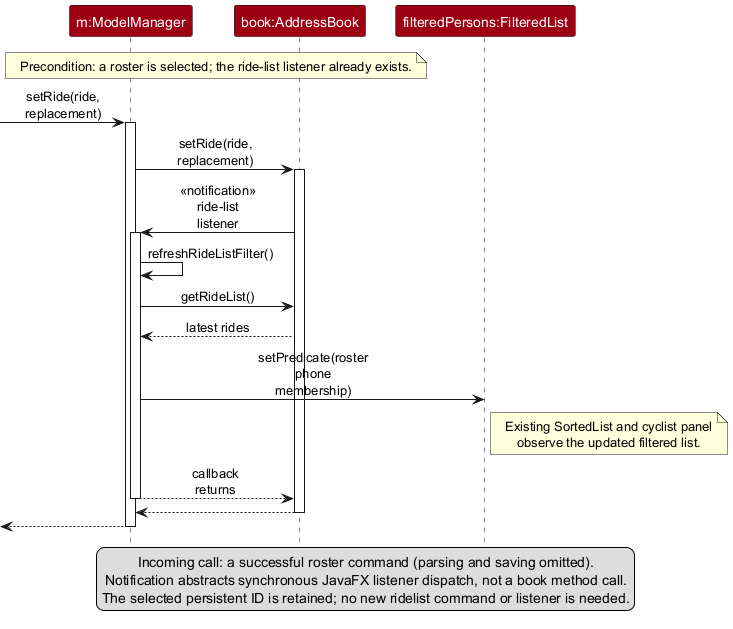
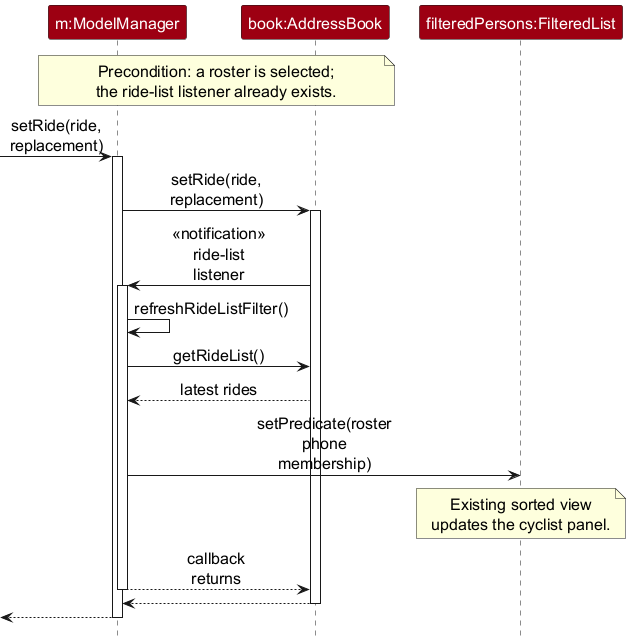
Improve guide readability and regression fixtures
Roster checks depend on unsuitable earlier fixtures and describe an
incomplete final state. Diagram labels are smaller than body text,
and the guide omits the new registered-cyclist FTP rejection case.

Make the roster scenario independent and describe all saved changes.
Enlarge diagram labels, remove repeated notes, document the FTP
extension and align platform requirements with course constraints.

Verify Jekyll, Chrome and Firefox layouts, changed PDF sections and
the full roster command scenario with JSON reload. JDK 25 check and
coverage pass: 897 tests and 92.30 percent line coverage.

diff --git a/docs/DeveloperGuide.md b/docs/DeveloperGuide.md
@@ -524,7 +524,7 @@ Cyclist phone edits use `AddressBook#setPerson(...)` to replace the old phone in
 ### Ride roster display (`ridelist`)
 
 `ridelist ID` displays registered cyclists in the left-hand cyclist panel. The first diagram shows a
-successful initial selection, with parsing omitted.
+successful initial selection, with parsing, local validation and filtering calls, and storage calls omitted.
 
 [![Initial roster selection, filtering and unchanged-data saving](images/RideListSequenceDiagram.png)](images/RideListSequenceDiagram.png)
 
@@ -779,6 +779,11 @@ The status column distinguishes current requirements from future work. Current c
 
       Use case ends.
 
+* 2d. The revised FTP is below the minimum for a ride in which the cyclist is registered.
+    * 2d1. Cyclique identifies the conflicting ride and required FTP. None of the requested field changes are applied.
+
+      Use case ends.
+
 **UC04 – Delete Cyclist**
 
 **Guarantees**
@@ -975,7 +980,7 @@ The status column distinguishes current requirements from future work. Current c
 
 **Environment/Compatibility**
 
-* Compatibility targets are Windows 11 (x86-64), Ubuntu 24.04 LTS (x86-64) and macOS 14 (Intel x86-64), with JDK 25 and the reference hardware above. These targets do not assert support for other Unix variants or ARM processors; verify each target before claiming release compatibility. Only a keyboard and display should be required as input/output peripherals. Record the operating system version used for each compatibility test.
+* The same release JAR must work on Windows (including WSL), Linux and macOS (Intel and ARM), with JDK 25. Representative test configurations are Windows 11, Ubuntu 24.04 LTS and macOS 14 or later, including both Mac architectures. These are compatibility requirements, not a claim that every configuration has passed testing. Record the operating system version, architecture and results for each release compatibility test. Only a keyboard and display should be required as input/output peripherals.
 
 **Security/Privacy**
 
@@ -1607,7 +1612,16 @@ Prepare an [empty test book](#preparing-an-empty-test-book) in a disposable fold
 
 ### Ride list regression (manual testing)
 
-Use the valid ride and cyclists created in the preceding roster scenario, and note their original details.
+Prepare an [empty test book](#preparing-an-empty-test-book). The preceding roster scenario deletes its
+original cyclist and uses a capacity-one ride, so prepare these independent fixtures:
+
+```text
+add n/Alice Rider p/+65 91111111 sos/+65 99999999 e/alice.roster@example.com f/250 x/Beginner l/any
+add n/Bob Rider p/+65 92222222 sos/+65 99999999 e/bob.roster@example.com f/250 x/Beginner l/any
+rideadd n/Roster View from/29-10-2026 0800 to/29-10-2026 1000 l/Punggol d/20 f/180 s/3
+```
+
+Note their original details. The ride receives ID 1.
 
 1. Add at least two eligible cyclists to one ride, then enter `ridelist ID` using that ride's displayed ID.
    Expected: only its roster members appear in the left panel, alphabetically; the Rides panel is unchanged.
@@ -1622,14 +1636,15 @@ Use the valid ride and cyclists created in the preceding roster scenario, and no
    the left panel without another `ridelist`. Remove that cyclist with `ridedeletecyclist`. Expected: the cyclist
    disappears immediately; removing the last member leaves the panel empty.
 1. While a roster is selected, add a new cyclist with a unique phone and email who is not on that roster.
-   Expected: the successful addition ends roster selection and displays all cyclists. Select the original ride
-   again, then edit a displayed member's name. Expected: only that ride's members remain displayed, in the
-   updated alphabetical order; editing does not end roster selection.
+   Expected: the successful addition ends roster selection and displays all cyclists. Select the populated ride
+   from the first step again, then edit a displayed member's name. Expected: only that ride's members remain
+   displayed, in the updated alphabetical order; editing does not end roster selection.
 1. Change another ride's roster. Expected: the selected ride and its displayed members do not change.
 1. Delete the selected ride with `ridedelete`. Expected: the left panel becomes empty and does not switch to another
    ride. Enter `list` or `find`; expected: it replaces the empty Ride List filter normally.
-1. Recheck the cyclist and ride details, roster cards and IDs. Expected: only the requested roster changes occurred.
-   Restart Cyclique; expected: the same stored data returns.
+1. Recheck the cyclist and ride details, roster cards and IDs. Expected: the new cyclist and edited name remain,
+   the selected ride is deleted, and the requested membership changes persist for surviving rides. All other
+   records and surviving ride IDs are unchanged. Restart Cyclique; expected: these same changes remain saved.
 
 ### Find and ridefind regression (manual testing)
 
